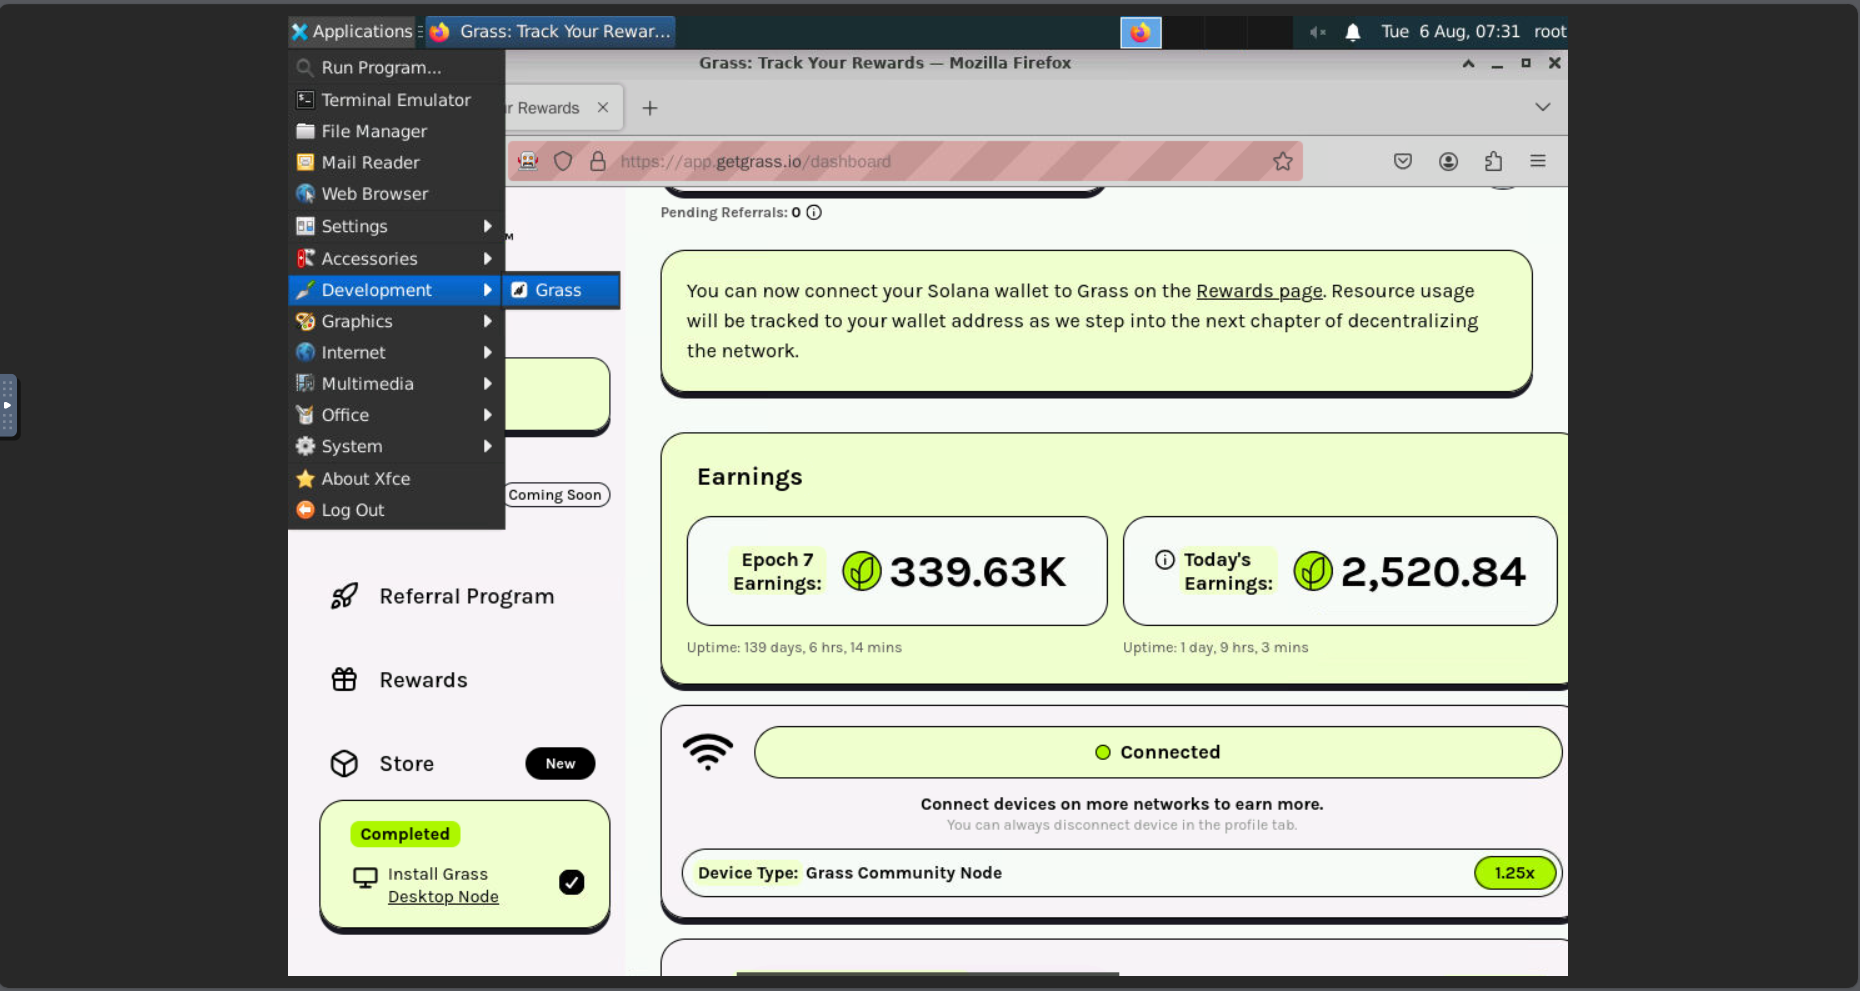
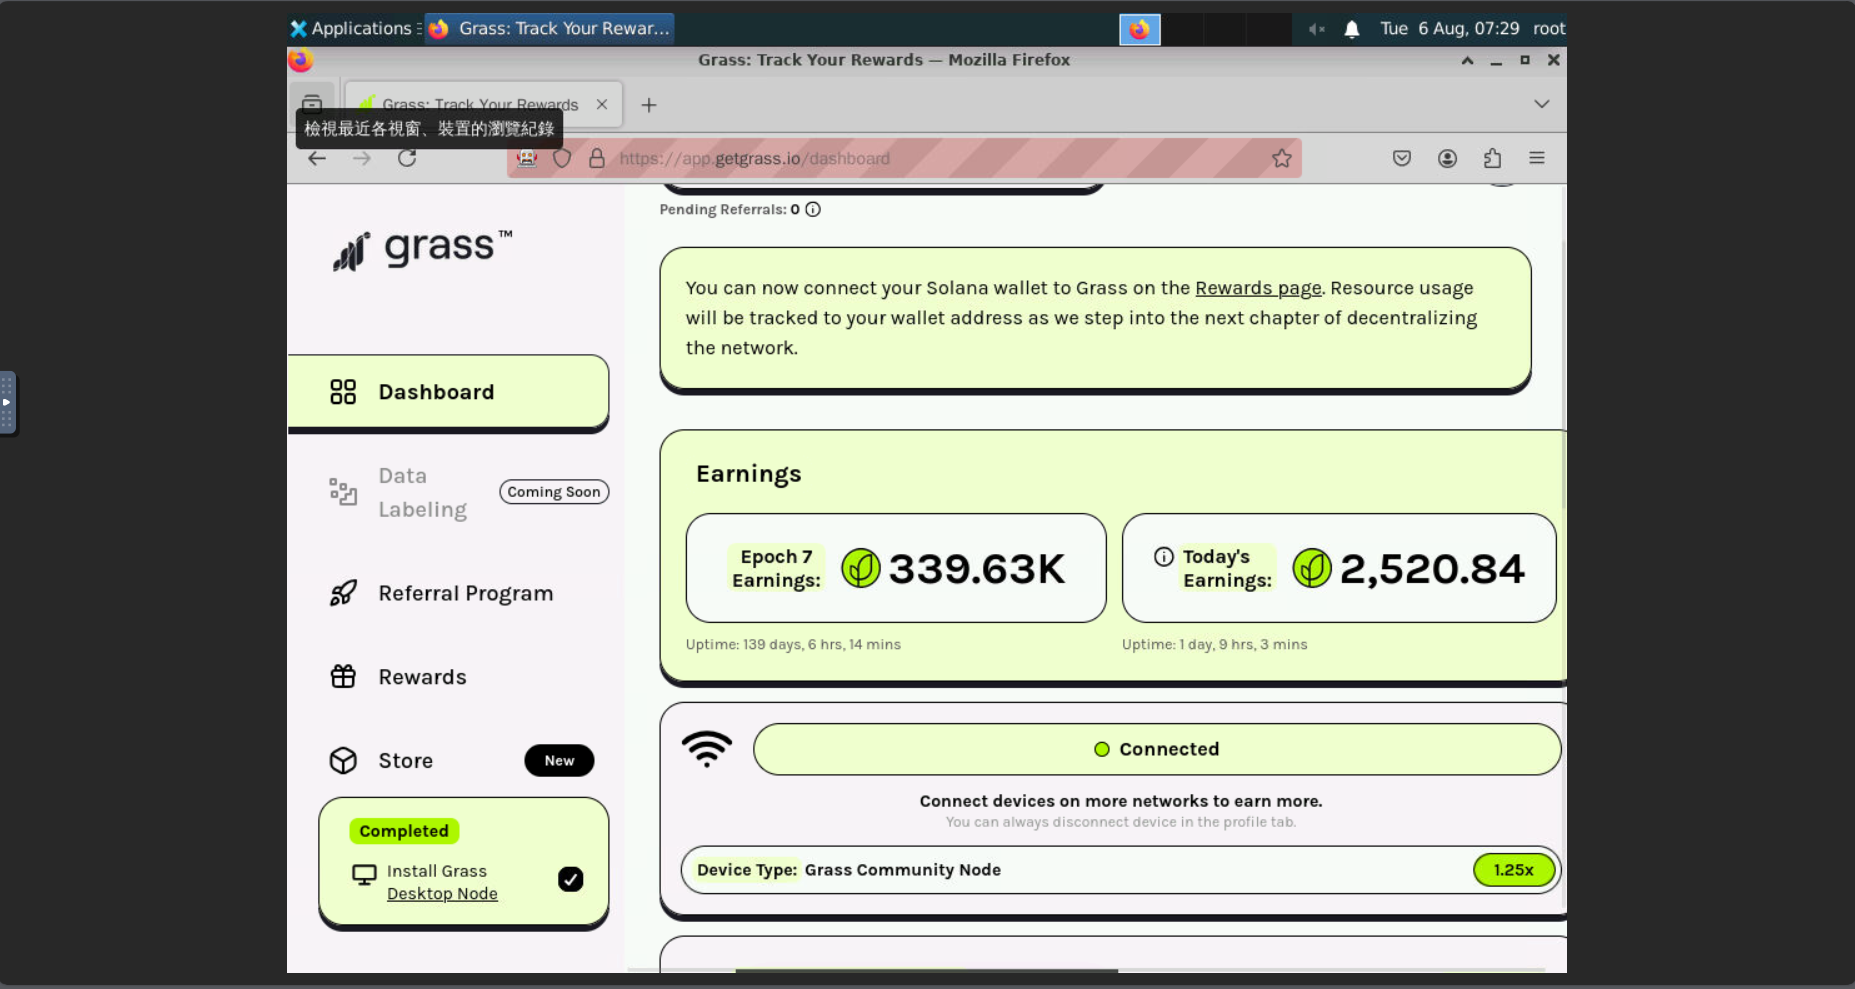
圖片更新

diff --git a/README.md b/README.md
@@ -18,15 +18,15 @@
   docker run -d -p 5900:5900 -p 6080:6080 --name grass-desktop-node -e email=your_email -e password=your_password jianzhe61/grass-desktop-ubuntu
   ```
 ## 操作畫面
-![螢幕擷取畫面 2024-08-06 153841](https://hackmd.io/_uploads/ryGsmIJ9A.png)
+![截圖7](https://github.com/JianZhe-github/grass-desktop-ubuntu/blob/main/截圖7.png)
 
   
 ## 操作教學
-1. 登入[http://localhost:6080/vnc.html](http://localhost:6080/vnc.html)會進入到novnc的介面(**注意 localhost 要取代為dockre宿主機的ip**)![螢幕擷取畫面 2024-08-06 151026](https://hackmd.io/_uploads/Sy-tnSkc0.png)
+1. 登入[http://localhost:6080/vnc.html](http://localhost:6080/vnc.html)會進入到novnc的介面(**注意 localhost 要取代為dockre宿主機的ip**)![截圖1](https://github.com/JianZhe-github/grass-desktop-ubuntu/blob/main/截圖1.png)
 
-2. 接著按下連線即可連線到ubuntu，進入後會出現這個提示，按下remove即可![螢幕擷取畫面 2024-08-06 152127](https://hackmd.io/_uploads/rkHM1Ly5A.png)
+2. 接著按下連線即可連線到ubuntu，進入後會出現這個提示，按下remove即可![截圖2](https://github.com/JianZhe-github/grass-desktop-ubuntu/blob/main/截圖2.png)
 3. 等待程式執行直到出現下方畫面，如果順利出現代表grass已經自動安裝完成
-![螢幕擷取畫面 2024-08-06 152910](https://hackmd.io/_uploads/Hyxk-Lk5C.png)
-4.點選左上角Applications，接著在Development找到Grass給他點下去![螢幕擷取畫面 2024-08-06 153121](https://hackmd.io/_uploads/By95-L150.png)
-5.出現grass程式介面後要自行輸入帳號密碼進行登入(**如果要輸入大寫請用shirt加上英文健**)![螢幕擷取畫面 2024-08-06 153412](https://hackmd.io/_uploads/rkxzMLkcA.png)
-6.可以把開機自動登入以及自動更新打開，到這邊就大功告成了![螢幕擷取畫面 2024-08-06 153756](https://hackmd.io/_uploads/BJbr7UJ5R.png)
+![截圖3](https://github.com/JianZhe-github/grass-desktop-ubuntu/blob/main/截圖3.png)
+4.點選左上角Applications，接著在Development找到Grass給他點下去![截圖4](https://github.com/JianZhe-github/grass-desktop-ubuntu/blob/main/截圖4.png)
+5.出現grass程式介面後要自行輸入帳號密碼進行登入(**如果要輸入大寫請用shirt加上英文健**)![截圖5](https://github.com/JianZhe-github/grass-desktop-ubuntu/blob/main/截圖5.png)
+6.可以把開機自動登入以及自動更新打開，到這邊就大功告成了![截圖6](https://github.com/JianZhe-github/grass-desktop-ubuntu/blob/main/截圖6.png)
